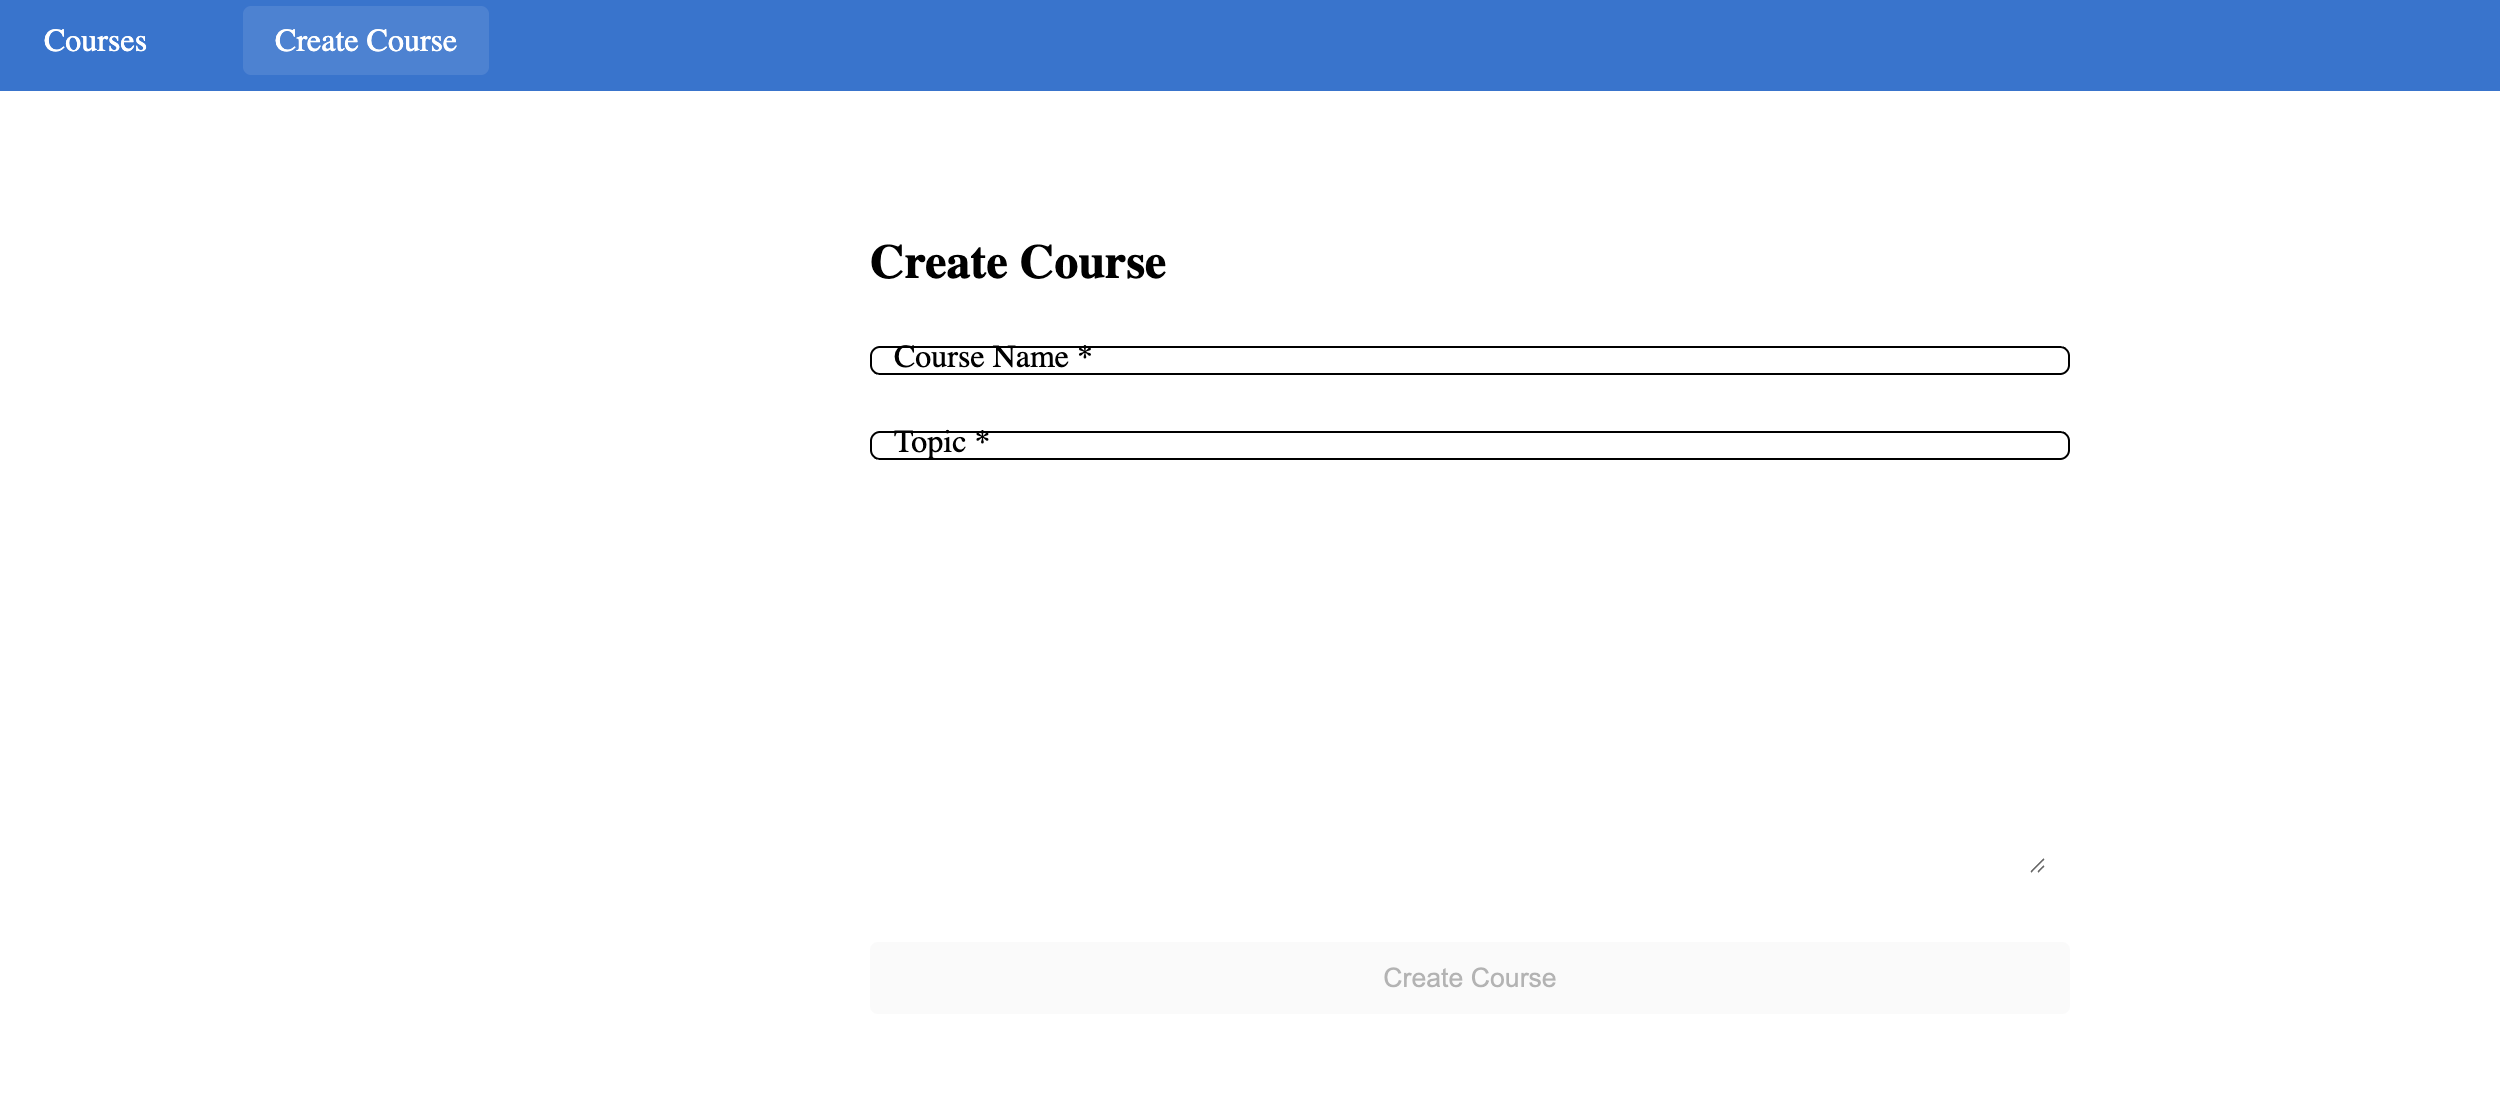
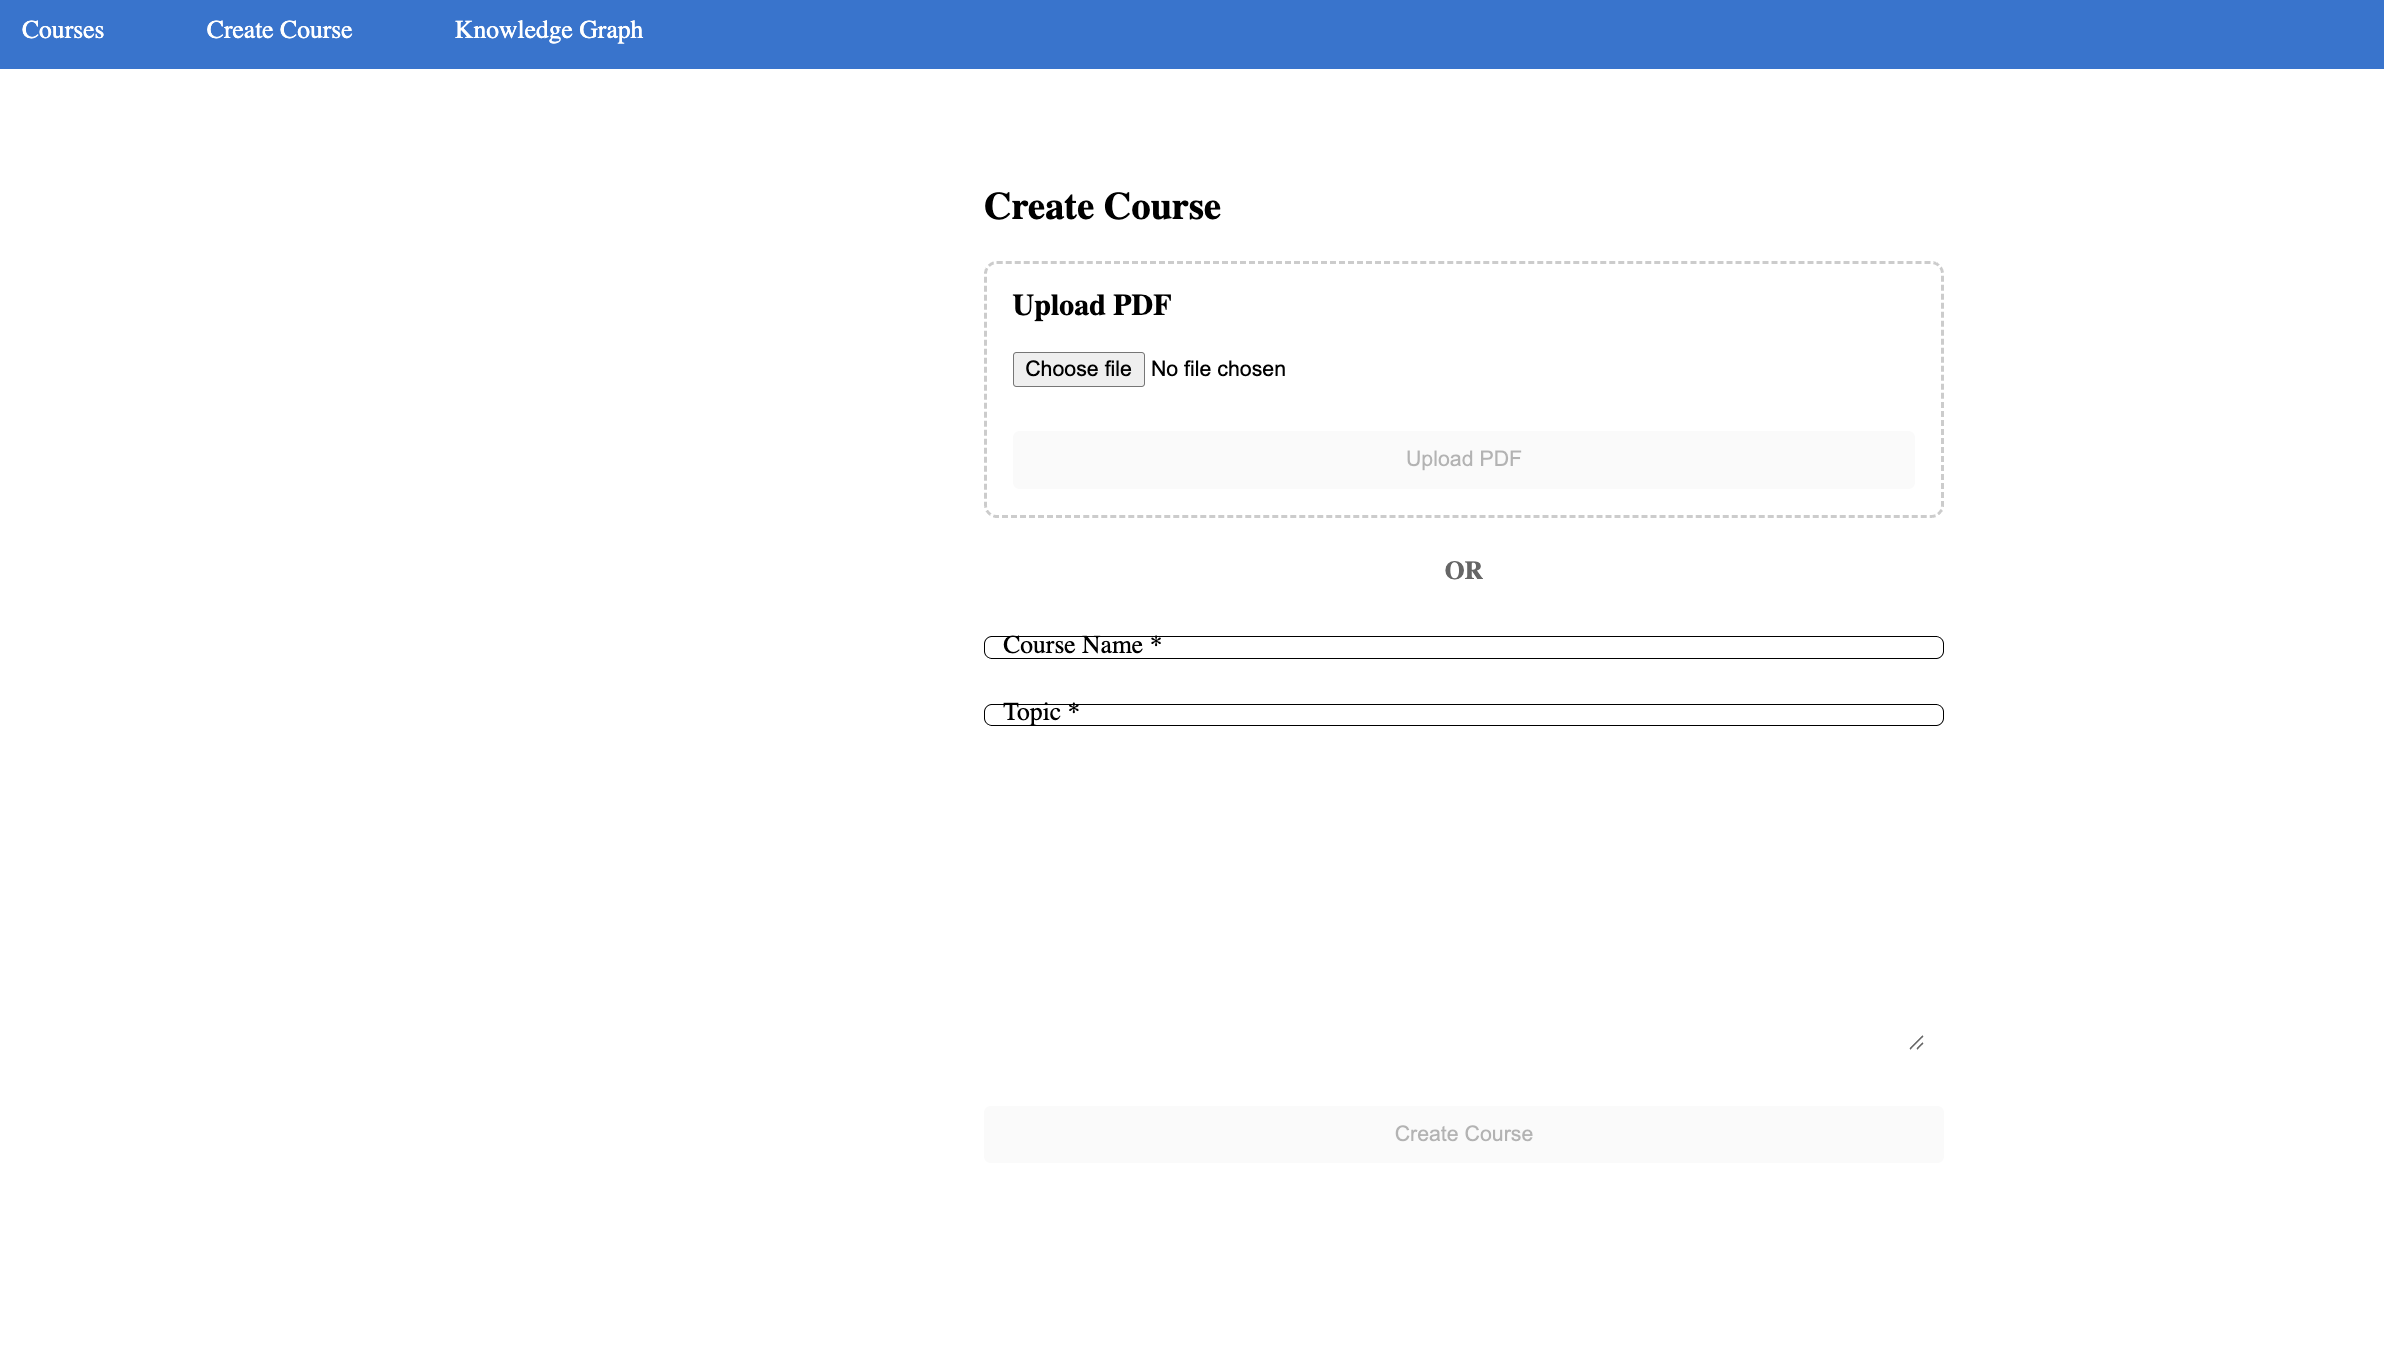
Add PDF upload support to RAG server
- Added /upload-pdf endpoint with PyPDF2 text extraction
- Added uploadPDF method to Angular service
- Added PDF upload UI with file input and upload button
- Updated README with PDF upload instructions
- PDF content is extracted and stored in RAG knowledge base

diff --git a/src/app/content-upload/content-upload.component.ts b/src/app/content-upload/content-upload.component.ts
@@ -12,6 +12,7 @@ export class ContentUploadComponent {
   content = '';
   isCreating = false;
   message = '';
+  selectedFile: File | null = null;
 
   constructor(private n8nService: N8nService) {}
 
@@ -41,5 +42,30 @@ export class ContentUploadComponent {
     this.course = '';
     this.topic = '';
     this.content = '';
+    this.selectedFile = null;
+  }
+
+  onFileSelected(event: any) {
+    this.selectedFile = event.target.files[0];
+  }
+
+  uploadPDF() {
+    if (!this.selectedFile) {
+      this.message = 'Please select a PDF file';
+      return;
+    }
+
+    this.isCreating = true;
+    this.n8nService.uploadPDF(this.selectedFile).subscribe({
+      next: (response) => {
+        this.message = `PDF uploaded successfully! Course: ${response.course}, Pages: ${response.pages}`;
+        this.resetForm();
+        this.isCreating = false;
+      },
+      error: (error) => {
+        this.message = error.error?.error || 'PDF upload failed. Please try again.';
+        this.isCreating = false;
+      }
+    });
   }
 }

diff --git a/src/app/content-upload/content-upload.component.html b/src/app/content-upload/content-upload.component.html
@@ -1,6 +1,16 @@
 <div class="upload-container">
   <h2>Create Course</h2>
   
+  <div class="upload-section">
+    <h3>Upload PDF</h3>
+    <input type="file" accept=".pdf" (change)="onFileSelected($event)" #fileInput>
+    <button mat-raised-button color="accent" (click)="uploadPDF()" [disabled]="isCreating || !selectedFile">
+      {{ isCreating ? 'Uploading...' : 'Upload PDF' }}
+    </button>
+  </div>
+
+  <div class="divider">OR</div>
+  
   <form (ngSubmit)="createCourse()" #uploadForm="ngForm">
     <mat-form-field appearance="outline">
       <mat-label>Course Name</mat-label>

diff --git a/src/app/n8n.service.ts b/src/app/n8n.service.ts
@@ -19,6 +19,12 @@ export class N8nService {
       return this.http.post('http://127.0.0.1:8000/insert', { content });
     }
 
+    uploadPDF(file: File): Observable<any> {
+      const formData = new FormData();
+      formData.append('file', file);
+      return this.http.post('http://127.0.0.1:8000/upload-pdf', formData);
+    }
+
     getCourses(): Observable<any> {
       return this.http.get('http://127.0.0.1:8000/courses');
     }

diff --git a/src/app/content-upload/content-upload.component.css b/src/app/content-upload/content-upload.component.css
@@ -21,3 +21,25 @@ button {
   background-color: #e8f5e8;
   color: #2e7d32;
 }
+
+.upload-section {
+  margin-bottom: 24px;
+  padding: 16px;
+  border: 2px dashed #ccc;
+  border-radius: 8px;
+}
+
+.upload-section h3 {
+  margin-top: 0;
+}
+
+.upload-section input[type="file"] {
+  margin-bottom: 12px;
+}
+
+.divider {
+  text-align: center;
+  margin: 24px 0;
+  font-weight: bold;
+  color: #666;
+}

diff --git a/lightrag-server.py b/lightrag-server.py
@@ -3,6 +3,8 @@ from flask import Flask, request, jsonify
 from flask_cors import CORS
 import json
 import re
+import PyPDF2
+import io
 
 app = Flask(__name__)
 CORS(app)
@@ -61,6 +63,43 @@ def insert():
         knowledge_base[course_name] = content
     
     return jsonify({"status": "inserted", "course": course_name})
+
+@app.route('/upload-pdf', methods=['POST'])
+def upload_pdf():
+    if 'file' not in request.files:
+        return jsonify({"error": "No file provided"}), 400
+    
+    file = request.files['file']
+    if file.filename == '':
+        return jsonify({"error": "No file selected"}), 400
+    
+    if not file.filename.endswith('.pdf'):
+        return jsonify({"error": "Only PDF files are supported"}), 400
+    
+    try:
+        # Read PDF content
+        pdf_reader = PyPDF2.PdfReader(io.BytesIO(file.read()))
+        text_content = ''
+        for page in pdf_reader.pages:
+            text_content += page.extract_text() + '\n'
+        
+        # Extract course name from content
+        course_name = extract_course_name(text_content)
+        if not course_name:
+            # Use filename as course name if not found in content
+            course_name = file.filename.replace('.pdf', '').lower().replace(' ', '-')
+        
+        # Store in knowledge base
+        knowledge_base[course_name] = text_content
+        
+        return jsonify({
+            "status": "inserted",
+            "course": course_name,
+            "pages": len(pdf_reader.pages),
+            "characters": len(text_content)
+        })
+    except Exception as e:
+        return jsonify({"error": str(e)}), 500
 
 @app.route('/courses', methods=['GET'])
 def get_courses():

diff --git a/README.md b/README.md
@@ -72,7 +72,7 @@ npm install
 
 ### 2. Install LightRAG Dependencies
 ```bash
-pip3 install flask flask-cors lightrag
+pip3 install flask flask-cors lightrag PyPDF2
 ```
 
 ### 3. Setup n8n
@@ -118,6 +118,13 @@ Access the app at `http://localhost:4200`
 ## Usage
 
 ### Adding Course Content
+
+**Option 1: Upload PDF**
+1. Navigate to "Create Course" page
+2. Click "Choose File" and select a PDF document
+3. Click "Upload PDF" - content will be extracted and stored
+
+**Option 2: Manual Entry**
 1. Navigate to "Create Course" page
 2. Fill in the form with structured content:
    ```
